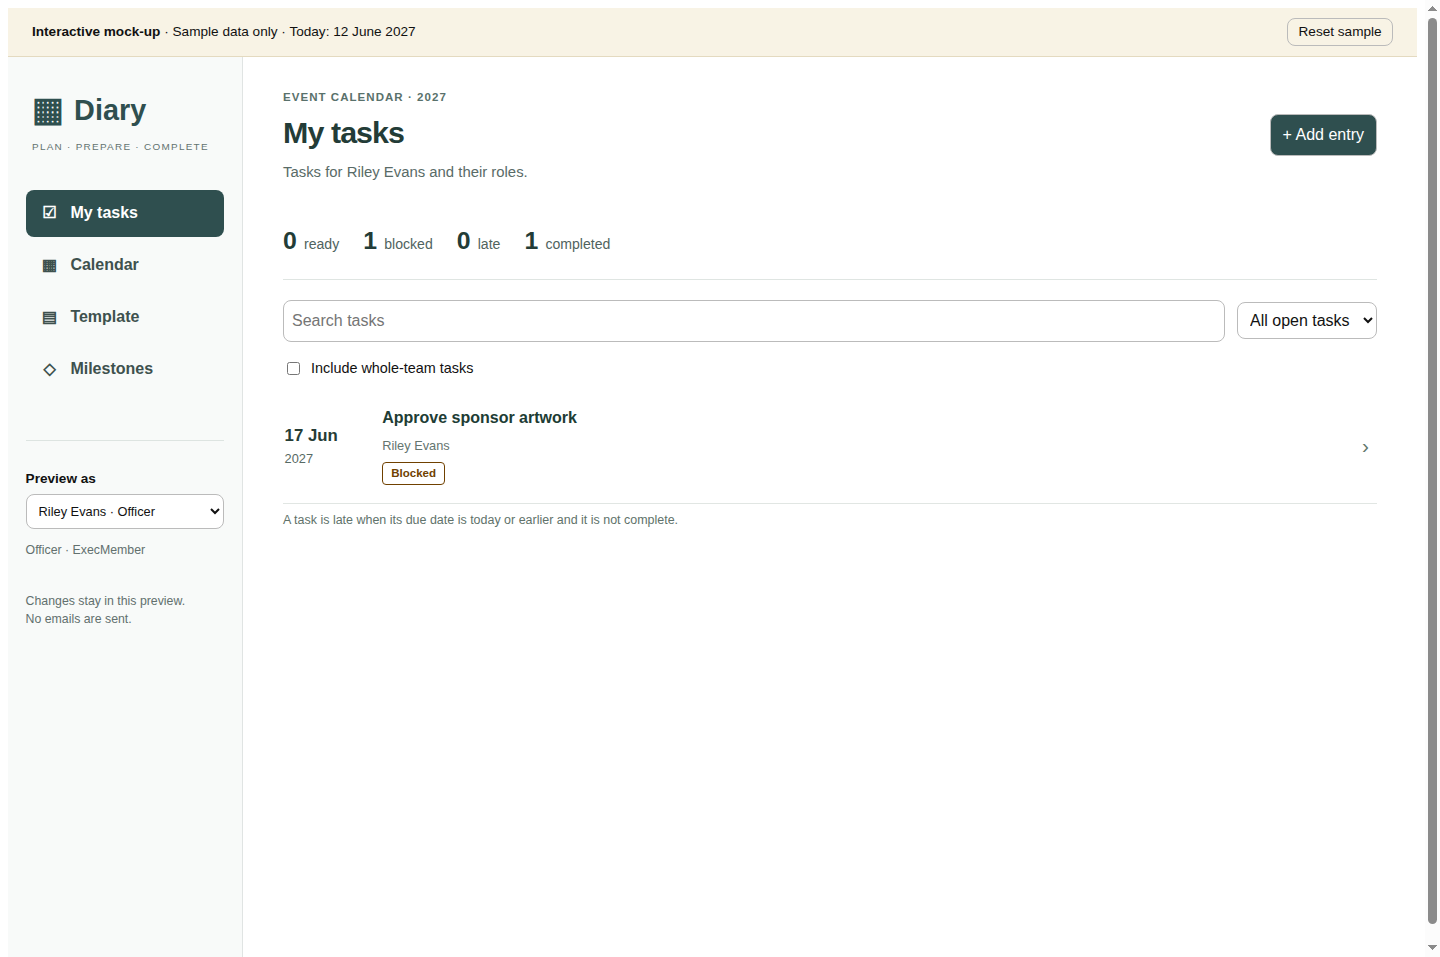
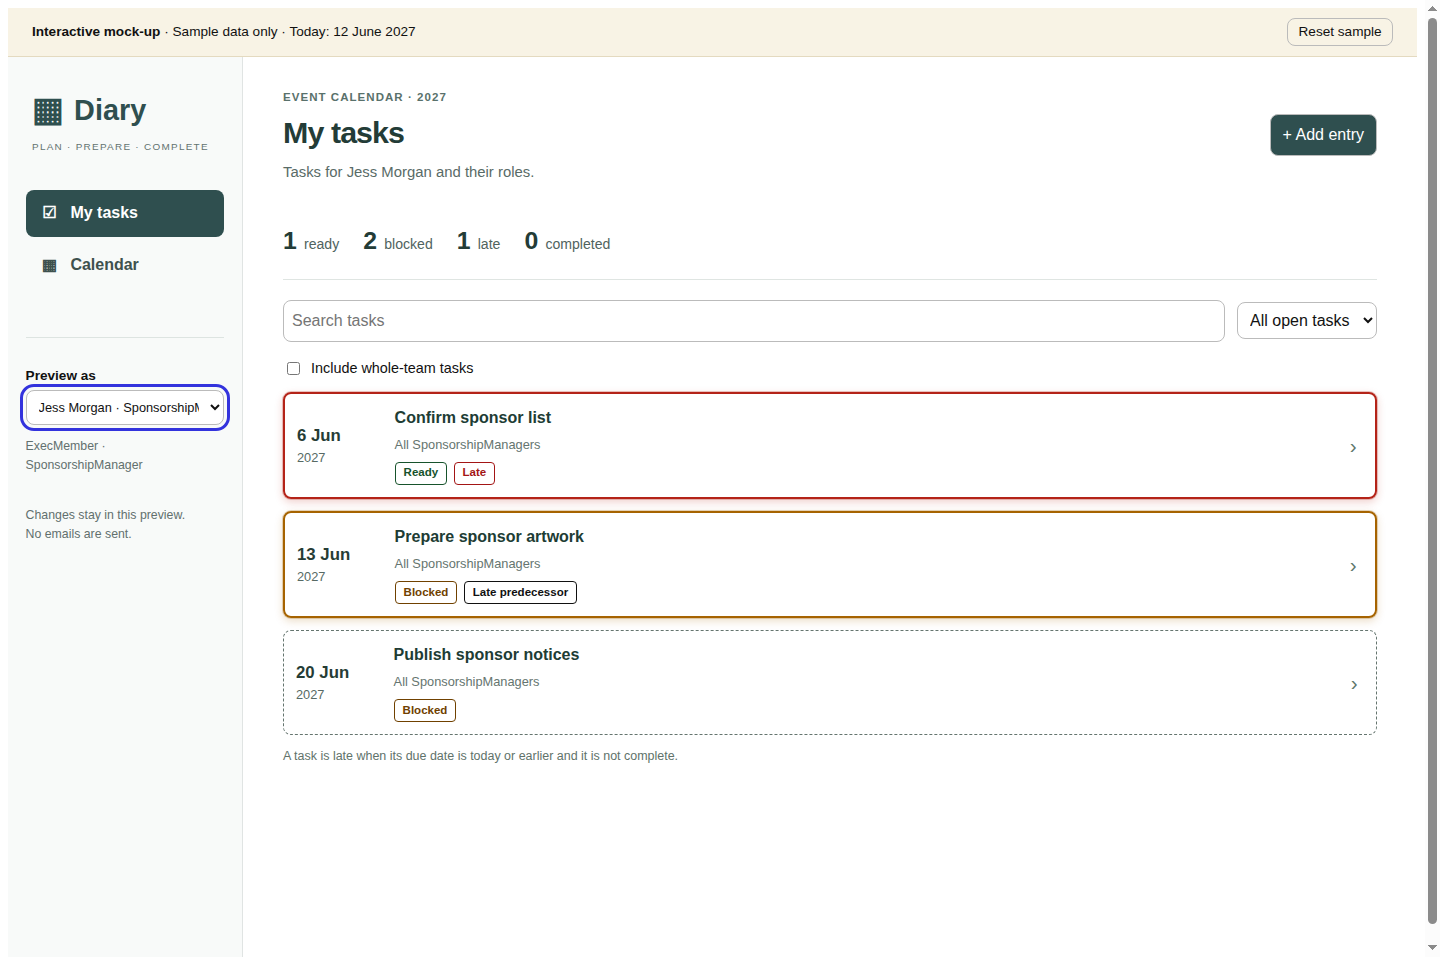
design: highlight late Diary tasks and late predecessors

diff --git a/design/ui/preview.js b/design/ui/preview.js
@@ -26,6 +26,7 @@
     function fmt(value, short=false) { return value ? new Date(value+'T12:00:00Z').toLocaleDateString('en-GB',{day:'numeric',month:short?'short':'long',...(short?{}:{year:'numeric'}),timeZone:'UTC'}) : 'Date not set'; }
     function blocked(task, tasks=state.tasks) { return task.pred.some(id => !tasks.find(item=>item.id===id)?.completed); }
     function late(task) { const due=dateOf(task); return !task.completed && due && due<=TODAY; }
+    function highlightClass(task) { const status=fixture.taskHighlight(task,state); return status ? ` diary-preview-task-${status}` : ''; }
     function ownerText(task) { return task.ownerKind==='person' ? people[task.owner]?.name || 'Owner not available' : task.ownerKind==='role' ? `All ${task.owner === 'ExecMember' ? 'ExecMembers' : 'SponsorshipManagers'}` : 'Whole team'; }
     function ruleText(task) {
         if(task.type==='once') return `One-time date · ${fmt(task.fixed)}`;
@@ -35,7 +36,7 @@
     }
     function badges(task) {
         if(task.completed) return '<span class="diary-status diary-preview-status-completed">Completed</span>';
-        return `<span class="diary-status diary-status-${blocked(task)?'blocked':'ready'}">${blocked(task)?'Blocked':'Ready'}</span>${late(task)?'<span class="diary-status diary-status-late">Late</span>':''}${!dateOf(task)?'<span class="diary-status diary-preview-status-neutral">Date not set</span>':''}`;
+        return `<span class="diary-status diary-status-${blocked(task)?'blocked':'ready'}">${blocked(task)?'Blocked':'Ready'}</span>${late(task)?'<span class="diary-status diary-status-late">Late</span>':''}${fixture.taskHighlight(task,state)==='blocked-late'?'<span class="diary-status diary-preview-status-blocked-late">Late predecessor</span>':''}${!dateOf(task)?'<span class="diary-status diary-preview-status-neutral">Date not set</span>':''}`;
     }
     function header(title, subtitle, actions='', eyebrow='Event calendar · 2027') {
         return `<p class="diary-preview-eyebrow">${esc(eyebrow)}</p><header class="diary-preview-header"><div class="diary-preview-header-text"><h1 class="diary-preview-title">${esc(title)}</h1><p class="diary-preview-subtitle">${esc(subtitle)}</p></div><div class="diary-preview-header-actions">${actions}</div></header>`;
@@ -62,17 +63,17 @@
         const tasks=state.tasks.filter(task=>(!mine||personal(task))&&(!filters.query||`${task.name} ${ownerText(task)}`.toLowerCase().includes(filters.query.toLowerCase()))&&
             (filters.state==='all'||filters.state==='completed'&&task.completed||filters.state==='open'&&!task.completed||filters.state==='late'&&late(task)||filters.state==='ready'&&!task.completed&&!blocked(task)||filters.state==='blocked'&&!task.completed&&blocked(task)))
             .sort((a,b)=>Number(Boolean(late(b)))-Number(Boolean(late(a)))||(dateOf(a)||'9999').localeCompare(dateOf(b)||'9999')||a.name.localeCompare(b.name));
-        $('task-rows').innerHTML=tasks.length?tasks.map(task=>`<li class="diary-preview-task-row"><div class="diary-preview-date"><span class="diary-preview-date-day">${esc(dateOf(task)?fmt(dateOf(task),true):'—')}</span><span class="diary-preview-date-year">${esc(dateOf(task)?dateOf(task).slice(0,4):'No date')}</span></div><div class="diary-preview-task-content"><a class="diary-preview-task-link" href="#task/${task.id}">${esc(task.name)}</a><p class="diary-preview-task-owner">${esc(ownerText(task))}</p><div class="diary-preview-badges">${badges(task)}</div></div><a class="diary-preview-row-arrow" href="#task/${task.id}" aria-label="Open ${esc(task.name)}">›</a></li>`).join(''):'<li class="diary-preview-empty">No tasks match this view.</li>';
+        $('task-rows').innerHTML=tasks.length?tasks.map(task=>`<li class="diary-preview-task-row${highlightClass(task)}"><div class="diary-preview-date"><span class="diary-preview-date-day">${esc(dateOf(task)?fmt(dateOf(task),true):'—')}</span><span class="diary-preview-date-year">${esc(dateOf(task)?dateOf(task).slice(0,4):'No date')}</span></div><div class="diary-preview-task-content"><a class="diary-preview-task-link" href="#task/${task.id}">${esc(task.name)}</a><p class="diary-preview-task-owner">${esc(ownerText(task))}</p><div class="diary-preview-badges">${badges(task)}</div></div><a class="diary-preview-row-arrow" href="#task/${task.id}" aria-label="Open ${esc(task.name)}">›</a></li>`).join(''):'<li class="diary-preview-empty">No tasks match this view.</li>';
     }
     function dependencyList(ids, tasks=state.tasks) {
-        return ids.length?`<ul class="diary-preview-dependency-list">${ids.map(id=>{const task=tasks.find(t=>t.id===id);return `<li class="diary-preview-dependency-item"><a class="diary-preview-task-link" href="#task/${esc(id)}">${esc(task?.name||'Task not available')}</a>${task?`<div class="diary-preview-badges">${badges(task)}</div>`:''}</li>`;}).join('')}</ul>`:'<p class="diary-preview-help">None.</p>';
+        return ids.length?`<ul class="diary-preview-dependency-list">${ids.map(id=>{const task=tasks.find(t=>t.id===id);return `<li class="diary-preview-dependency-item${task?highlightClass(task):''}"><a class="diary-preview-task-link" href="#task/${esc(id)}">${esc(task?.name||'Task not available')}</a>${task?`<div class="diary-preview-badges">${badges(task)}</div>`:''}</li>`;}).join('')}</ul>`:'<p class="diary-preview-help">None.</p>';
     }
     function details(id) {
         const task=state.tasks.find(t=>t.id===id);if(!task){main.innerHTML=header('Task not found','Return to the calendar to select a task.');return;}
         const canComplete=officer()||(task.ownerKind==='person'&&task.owner===state.persona)||(task.ownerKind==='role'&&people[state.persona].groups.includes(task.owner));
         const successors=state.tasks.filter(t=>t.pred.includes(id));
         main.innerHTML=`<a class="diary-preview-back" href="#${lastList}">← Back to ${lastList==='mine'?'my tasks':'calendar'}</a>`+header(task.name,ownerText(task),!task.completed&&(officer()||task.owner===state.persona)?`<a class="diary-button" href="#edit/${id}">Edit entry</a>`:'')+
-            `<div class="diary-preview-badges">${badges(task)}</div><p class="diary-preview-detail-description">${esc(task.description)}</p><div class="diary-preview-columns"><div class="diary-preview-detail-main"><section class="diary-card"><h2 class="diary-preview-section-title">Task details</h2><dl class="diary-preview-facts"><dt class="diary-preview-fact-name">Due date</dt><dd class="diary-preview-fact-value">${esc(fmt(dateOf(task)))}</dd><dt class="diary-preview-fact-name">Date rule</dt><dd class="diary-preview-fact-value">${esc(ruleText(task))}</dd><dt class="diary-preview-fact-name">Owner</dt><dd class="diary-preview-fact-value">${esc(ownerText(task))}</dd></dl></section><section class="diary-card"><h2 class="diary-preview-section-title">${task.completed?'Completion record':'Complete this task'}</h2>${task.completed?`<p class="diary-preview-completion-record">Completed by ${esc(people[task.completedBy]?.name||'Team member')} on ${fmt(task.completedOn)}.</p><p class="diary-preview-completion-note">${esc(task.completionNote||'No note added.')}</p>`:blocked(task)?`<p class="diary-preview-note diary-preview-warning">This task is blocked. Complete its predecessors first.</p><button type="button" class="diary-button" disabled>Mark as complete</button>`:!canComplete?'<p class="diary-preview-note">This task belongs to another person or the whole team. Use the Officer preview to record completion.</p>':`<form class="diary-preview-completion-form" id="completion-form"><label class="diary-preview-field-label" for="completion-note">Completion note <span class="diary-preview-optional">(optional)</span></label><textarea class="diary-preview-control" id="completion-note" rows="3" placeholder="Record what was done"></textarea><div class="diary-actions"><button class="diary-button diary-button-primary" type="submit">Mark as complete</button></div><p class="diary-preview-help">Preview behavior only. Production completion permissions are still a design decision.</p></form>`}</section></div><aside class="diary-preview-detail-side"><section class="diary-card"><h2 class="diary-preview-section-title">Depends on</h2>${dependencyList(task.pred)}</section><section class="diary-card"><h2 class="diary-preview-section-title">Enables</h2>${dependencyList(successors.map(t=>t.id))}</section></aside></div>`;
+            `<div class="diary-preview-badges">${badges(task)}</div><p class="diary-preview-detail-description">${esc(task.description)}</p><div class="diary-preview-columns"><div class="diary-preview-detail-main"><section class="diary-card${highlightClass(task)}"><h2 class="diary-preview-section-title">Task details</h2><dl class="diary-preview-facts"><dt class="diary-preview-fact-name">Due date</dt><dd class="diary-preview-fact-value">${esc(fmt(dateOf(task)))}</dd><dt class="diary-preview-fact-name">Date rule</dt><dd class="diary-preview-fact-value">${esc(ruleText(task))}</dd><dt class="diary-preview-fact-name">Owner</dt><dd class="diary-preview-fact-value">${esc(ownerText(task))}</dd></dl></section><section class="diary-card"><h2 class="diary-preview-section-title">${task.completed?'Completion record':'Complete this task'}</h2>${task.completed?`<p class="diary-preview-completion-record">Completed by ${esc(people[task.completedBy]?.name||'Team member')} on ${fmt(task.completedOn)}.</p><p class="diary-preview-completion-note">${esc(task.completionNote||'No note added.')}</p>`:blocked(task)?`<p class="diary-preview-note diary-preview-warning">This task is blocked. Complete its predecessors first.</p><button type="button" class="diary-button" disabled>Mark as complete</button>`:!canComplete?'<p class="diary-preview-note">This task belongs to another person or the whole team. Use the Officer preview to record completion.</p>':`<form class="diary-preview-completion-form" id="completion-form"><label class="diary-preview-field-label" for="completion-note">Completion note <span class="diary-preview-optional">(optional)</span></label><textarea class="diary-preview-control" id="completion-note" rows="3" placeholder="Record what was done"></textarea><div class="diary-actions"><button class="diary-button diary-button-primary" type="submit">Mark as complete</button></div><p class="diary-preview-help">Preview behavior only. Production completion permissions are still a design decision.</p></form>`}</section></div><aside class="diary-preview-detail-side"><section class="diary-card"><h2 class="diary-preview-section-title">Depends on</h2>${dependencyList(task.pred)}</section><section class="diary-card"><h2 class="diary-preview-section-title">Enables</h2>${dependencyList(successors.map(t=>t.id))}</section></aside></div>`;
         if($('completion-form')) $('completion-form').addEventListener('submit', event=>{event.preventDefault();task.completedDue=dateOf(task);task.completed=true;task.completedBy=state.persona;task.completedOn=TODAY;task.completionNote=$('completion-note').value.trim();persist();details(id);notify('Task completed in the preview. Successor readiness has been updated.');});
     }
     function ownerFields(spec, personalOnly=false) {
@@ -122,7 +123,7 @@
         if(id&&!existing){go(lastList);return;}
         if(existing&&(existing.completed||(!officer()&&!(existing.ownerKind==='person'&&existing.owner===state.persona)))){main.innerHTML=header('Entry cannot be edited','Use the calendar to inspect this entry.');return;}
         const spec=existing?{...clone(existing),existing:true}:{id:`t${state.nextId}`,name:'',description:'',type:'relative',milestone:'event_date',offset:-7,ownerKind:officer()?'team':'person',owner:officer()?'':state.persona,pred:[]};
-        main.innerHTML=`<a class="diary-preview-back" href="#${lastList}">← Back to ${lastList==='mine'?'my tasks':'calendar'}</a>`+header(existing?'Edit entry':officer()?'Add calendar entry':'Add personal entry','Changes apply to this preview only.')+`<div class="diary-card">${formMarkup(spec,state.tasks,{personalOnly:!officer()})}</div>`;
+        main.innerHTML=`<a class="diary-preview-back" href="#${lastList}">← Back to ${lastList==='mine'?'my tasks':'calendar'}</a>`+header(existing?'Edit entry':officer()?'Add calendar entry':'Add personal entry','Changes apply to this preview only.')+`<div class="diary-card${existing?highlightClass(existing):''}">${existing?`<div class="diary-preview-badges">${badges(existing)}</div>`:''}${formMarkup(spec,state.tasks,{personalOnly:!officer()})}</div>`;
         bindForm(spec,state.tasks,(result,addTemplate)=>{if(addTemplate&&(state.draft||state.approved).some(t=>t.name.toLowerCase()===result.name.toLowerCase()))throw Error('That name already exists in the template draft.');if(addTemplate&&result.pred.some(id=>!(state.draft||state.approved).some(t=>t.id===id)))throw Error('A selected predecessor is not in the template. Add it to the template first, or save this entry without the template option.');if(!officer())result.pred=clone(spec.pred);if(existing)state.tasks[state.tasks.findIndex(t=>t.id===id)]=result;else{state.tasks.push(result);state.nextId++;}if(addTemplate){if(!state.draft)state.draft=clone(state.approved);state.draft.push({...clone(result),pred:result.pred.filter(id=>state.draft.some(t=>t.id===id))});}persist();go(`task/${result.id}`);notify(addTemplate?'Entry saved. The template draft also has a new entry.':'Entry saved in the preview.');});
     }
     function requireOfficer(){if(officer())return true;main.innerHTML=header('Officer view','This page is available to Officers. Switch the preview role to inspect it.');return false;}

diff --git a/design/ui/sample-state.js b/design/ui/sample-state.js
@@ -40,7 +40,17 @@
         value.setUTCDate(value.getUTCDate() + (task.type === 'relative' ? Number(task.offset || 0) : 0));
         return value.toISOString().slice(0,10);
     }
+    function taskHighlight(task, state) {
+        if(task.completed) return '';
+        const due = dueDate(task, state);
+        if(due && due <= TODAY) return 'late';
+        return task.pred.some(id => {
+            const predecessor = state.tasks.find(item => item.id === id);
+            const predecessorDue = predecessor && dueDate(predecessor, state);
+            return predecessor && !predecessor.completed && predecessorDue && predecessorDue <= TODAY;
+        }) ? 'blocked-late' : task.pred.some(id => !state.tasks.find(item => item.id === id)?.completed) ? 'blocked' : '';
+    }
     function load() { try { return JSON.parse(sessionStorage.getItem(STORE)) || initial(); } catch { return initial(); } }
     function persist(state) { try { sessionStorage.setItem(STORE, JSON.stringify(state)); } catch { /* Use memory when storage is unavailable. */ } }
-    window.DiaryPreviewData = Object.freeze({TODAY, people, roles, milestoneLabels, initial, dueDate, load, persist});
+    window.DiaryPreviewData = Object.freeze({TODAY, people, roles, milestoneLabels, initial, dueDate, taskHighlight, load, persist});
 })();

diff --git a/design/ui/task-states.css b/design/ui/task-states.css
@@ -1,0 +1,26 @@
+/* Shared preview task states. All selectors remain within the Diary namespace. */
+.diary {
+    --diary-preview-late-border: #b42318;
+    --diary-preview-late-shadow: 0 0 0 1px #b4231840, 0 3px 9px #b4231838;
+    --diary-preview-blocked-late-border: #a66300;
+    --diary-preview-blocked-late-shadow: 0 0 0 1px #a6630040, 0 3px 9px #a6630038;
+    --diary-preview-blocked-border: #65756f;
+}
+.diary .diary-preview-task-blocked {
+    border: 1px dashed var(--diary-preview-blocked-border);
+    border-radius: var(--diary-radius);
+    padding: .75rem;
+    margin-block: .75rem;
+}
+.diary .diary-preview-task-blocked-late,
+.diary .diary-preview-task-late {
+    border: 2px solid var(--diary-preview-blocked-late-border);
+    border-radius: var(--diary-radius);
+    box-shadow: var(--diary-preview-blocked-late-shadow);
+    padding: .75rem;
+    margin-block: .75rem;
+}
+.diary .diary-preview-task-late {
+    border-color: var(--diary-preview-late-border);
+    box-shadow: var(--diary-preview-late-shadow);
+}

diff --git a/design/ui/index.html b/design/ui/index.html
@@ -6,6 +6,7 @@
     <title>Diary · UI preview</title>
     <link rel="stylesheet" href="../../static/Diary/styles/diary.css">
     <link rel="stylesheet" href="preview.css">
+    <link rel="stylesheet" href="task-states.css">
     <script defer src="sample-state.js"></script>
     <script defer src="preview.js"></script>
 </head>

diff --git a/README.md b/README.md
@@ -30,6 +30,10 @@ The previews use sample data and do not complete application requirements.
 - [ ] Preserve completion records and due dates at completion when milestone dates change.
 - [ ] Add URL routes and browser views for personal tasks, the event calendar, and the template editor.
 - [ ] Show calendar entries in a simple date-ordered list.
+- [ ] Highlight Late tasks with a red shadowed border in every task view.
+- [ ] Highlight Blocked tasks with an amber shadowed border when a direct predecessor is late.
+- [ ] Give the red highlight priority when the task itself is late.
+- [ ] Keep text state labels and a dashed border for other Blocked tasks.
 - [ ] Make the personal task view the default Diary page for a logged-in user.
 - [ ] Add navigation to the full event calendar for users with view permission.
 - [ ] Connect the pages to the callable API with trusted identity and current role membership.
@@ -76,7 +80,8 @@ These items do not authorize implementation.
 
 ### Documentation review
 
-The official ASD-STE100 Issue 9 PDF was unavailable during this update because its server returned HTTP 403.
+The official ASD-STE100 Issue 9 PDF initially returned HTTP 403.
+An existing local copy was available for the task highlighting update.
 A full dictionary and technical-name review remains necessary.
 This update does not claim full ASD-STE100 compliance.
 
@@ -906,6 +911,10 @@ Classes without a CSS rule remain available as content hooks.
 | `diary-preview-task-link` | Task link. |
 | `diary-preview-task-owner` | Task owner. |
 | `diary-preview-task-row` | One event task row. |
+| `diary-preview-task-late` | Red shadowed border for a Late task. |
+| `diary-preview-task-blocked-late` | Amber shadowed border for a task blocked by a late direct predecessor. |
+| `diary-preview-task-blocked` | Dashed border for other Blocked tasks. |
+| `diary-preview-status-blocked-late` | Text label for a late predecessor. |
 | `diary-preview-template-list` | Template list. |
 | `diary-preview-template-switch` | Template switch. |
 | `diary-preview-template-task` | Template entry selection button. |
@@ -913,6 +922,29 @@ Classes without a CSS rule remain available as content hooks.
 | `diary-preview-toast` | Noninteractive result notification. |
 | `diary-preview-toolbar` | Search and filter layout. |
 | `diary-preview-warning` | Warning variant of a context message. |
+
+### Preview task highlights
+
+The Diary UI preview loads `design/ui/task-states.css` after its layout stylesheet.
+No existing styling class was renamed.
+The new state classes also apply to task details, edit forms, and dependency items.
+Red takes priority when a task is both Late and Blocked.
+Amber identifies a Blocked task with a late direct predecessor.
+Other Blocked tasks use a dashed border.
+Completed tasks have no task highlight.
+Template definitions have no instance dates and receive no lateness highlight.
+Text labels remain visible with the borders.
+
+The preview defines these CSS variables within `.diary`.
+The shadow variables contain complete CSS `box-shadow` values.
+
+| Variable | Default | Purpose |
+| --- | --- | --- |
+| `--diary-preview-late-border` | `#b42318` | Red border color. |
+| `--diary-preview-late-shadow` | `0 0 0 1px #b4231840, 0 3px 9px #b4231838` | Red shadow. |
+| `--diary-preview-blocked-late-border` | `#a66300` | Amber border color. |
+| `--diary-preview-blocked-late-shadow` | `0 0 0 1px #a6630040, 0 3px 9px #a6630038` | Amber shadow. |
+| `--diary-preview-blocked-border` | `#65756f` | Dashed border color for other Blocked tasks. |
 
 ## Dashboard count mock-up
 

diff --git a/design/ui/README.md b/design/ui/README.md
@@ -33,6 +33,24 @@ The preview date is 12 June 2027.
 An incomplete task is late when its due date is today or earlier.
 A blocked task can also be late.
 
+## Task highlights
+
+Late tasks have a red shadowed border.
+Blocked tasks have an amber shadowed border when a direct predecessor is late.
+Red takes priority when the task itself is late.
+Other Blocked tasks have a dashed border.
+Completed tasks have no highlight.
+Text labels identify the states without color alone.
+The same rules apply to personal lists, the calendar, task details, entry edit forms, and dependency lists.
+Template definitions have no instance dates and do not receive lateness highlights.
+
+Open **Calendar** to inspect the sample highlights.
+**Confirm sponsor list** is red because it is late.
+**Prepare sponsor artwork** is amber because that late task blocks it.
+**Approve sponsor artwork** has a dashed border because its direct predecessor is not late.
+Complete **Confirm sponsor list** to remove its red highlight.
+**Prepare sponsor artwork** then becomes Ready and loses its amber highlight.
+
 Saved preview images:
 
 - [Default personal view on desktop](previews/my-tasks-desktop.png).
@@ -92,6 +110,7 @@ The configured application template and the database remain unchanged.
 ## Styling
 
 The preview uses `../../static/Diary/styles/diary.css` followed by `preview.css`.
+It then loads `task-states.css` for shared task highlights.
 `sample-state.js` supplies the shared task data and date calculations for both previews.
 The second file adds page layout and preview-specific components.
 It does not replace the packaged stylesheet.
